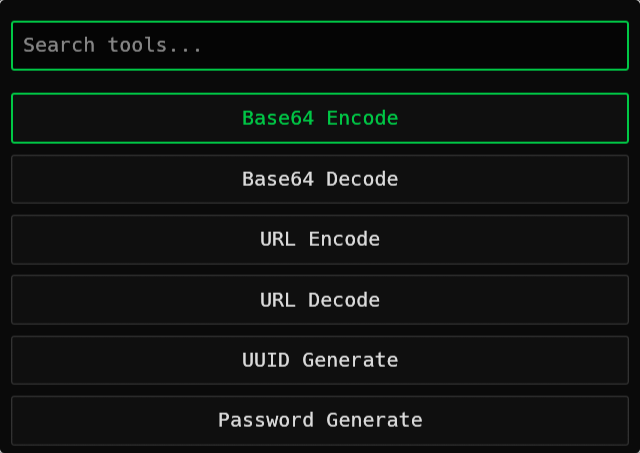
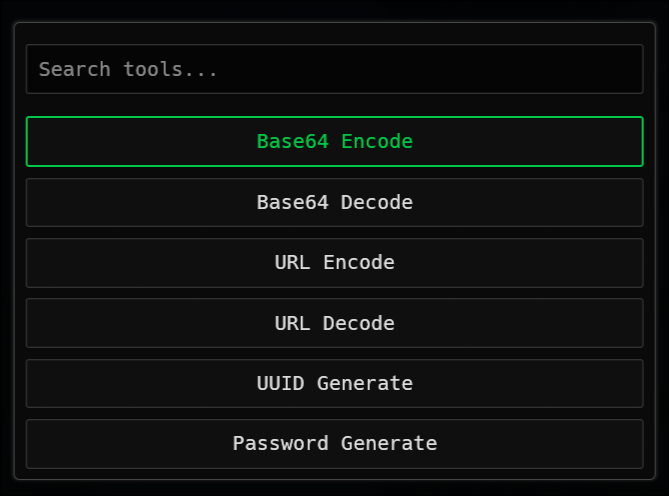
feat: update readme

diff --git a/README.md b/README.md
@@ -1,6 +1,6 @@
 # Panoply
 
-A small, fast desktop utility for common developer tasks. Built with [egui](https://github.com/emilk/egui) in Rust.
+Tiny and fast desktop utility for common developer tasks. Built with [egui](https://github.com/emilk/egui) in Rust.
 
 ![Panoply Screenshot](screenshot.png)
 
@@ -13,34 +13,12 @@ A small, fast desktop utility for common developer tasks. Built with [egui](http
 
 Quick search and keyboard navigation (arrow keys + enter) to jump between tools.
 
+Still **WIP**
+
 ## Usage on NixOS (with Flakes)
 
-### Run directly
+### Run with Nix
 
 ```bash
 nix run github:Code-Growers/panoply
-```
-
-### Add to your system flake
-
-```nix
-{
-  inputs.panoply.url = "github:Code-Growers/panoply";
-
-  outputs = { self, nixpkgs, panoply, ... }:
-    let
-      system = "x86_64-linux";
-      pkgs = nixpkgs.legacyPackages.${system};
-    in
-    {
-      homeConfigurations.user = home-manager.lib.homeManagerConfiguration {
-        inherit pkgs;
-        modules = [
-          {
-            home.packages = [ panoply.packages.${system}.default ];
-          }
-        ];
-      };
-    };
-}
 ```